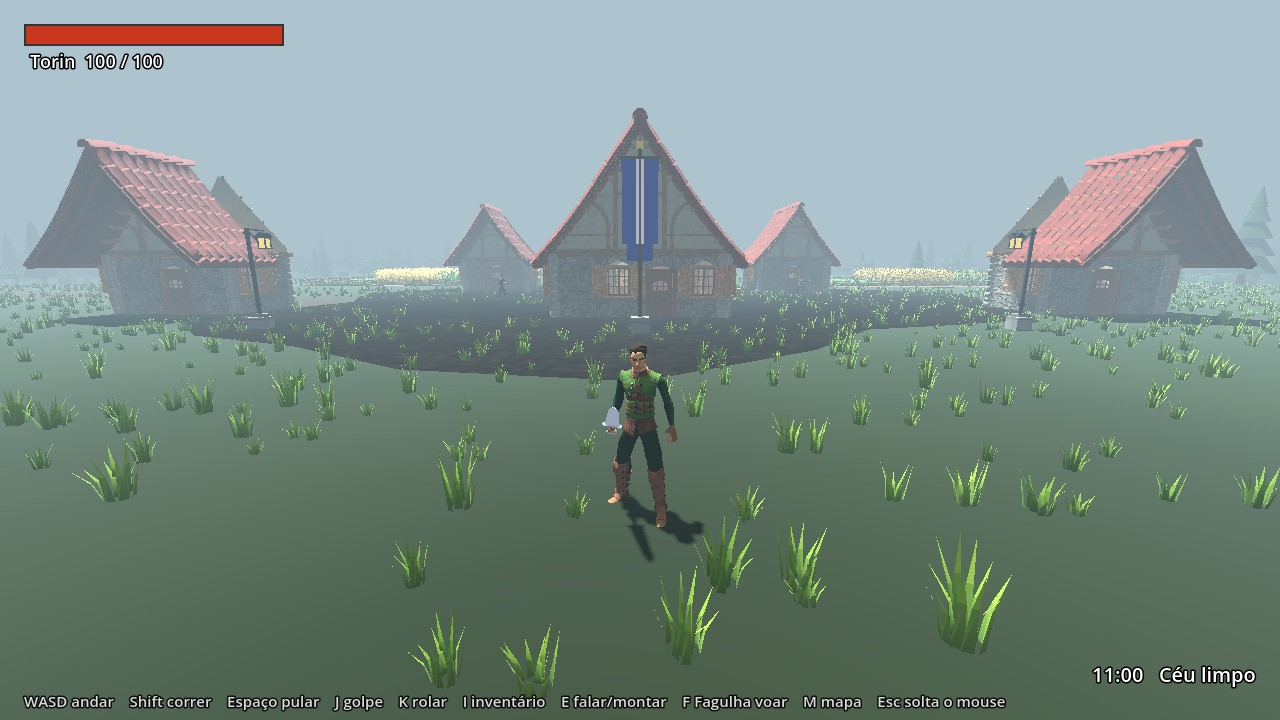
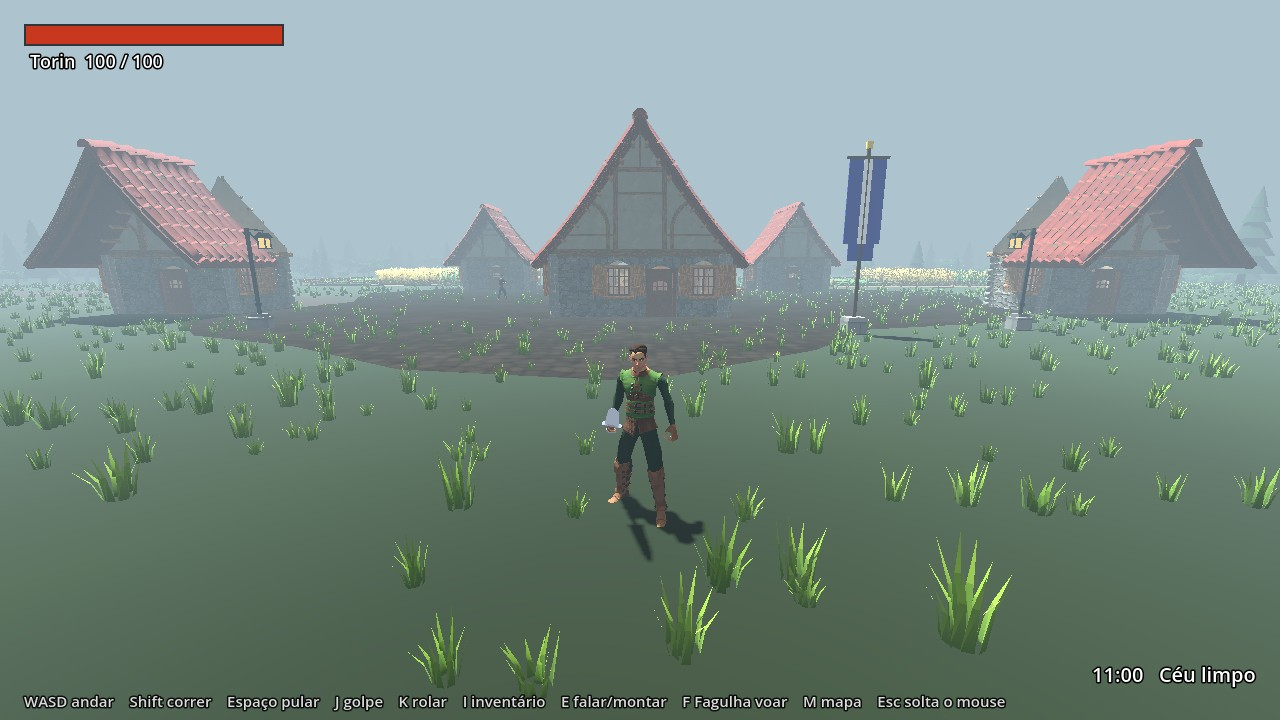
Postos rebeldes e imperiais equipados; vilas com terreiro claro e estandarte fora da porta
teste_mundo TUDO PASSOU; vila, fazenda, pescador, posto rebelde e posto imperial
fotografados dentro do mundo (docs/construcoes/povoados/).

Claude-Session: https://claude.ai/code/session_01Vzt37KowdLhiG16GmA9WD3

diff --git a/docs/MAPA-DO-TRABALHO.md b/docs/MAPA-DO-TRABALHO.md
@@ -12,7 +12,7 @@ Ponto de entrada: [README.md](../README.md) e [CLAUDE.md](../CLAUDE.md). Relato 
 | `tools/bancada_construcao.gd` | BANCADA DAS CONSTRUÇÕES: monta UMA peça (hoje a muralha) num chão plano com o Torin de régua, tira 13 fotos e roda 3 testes em ~12 s. Uso: `... --script res://tools/bancada_construcao.gd -- muralha`. Fotos em `docs/construcoes/muralha/`. |
 | `scripts/mundo/pecas_da_muralha.gd` | Kit da muralha (lanço, torre, escada, portão com arco). Aprovado na bancada e usado por `muralha_do_reino.gd`. |
 | `scripts/mundo/pecas_de_construcao.gd` | Base dos kits de construção: junta caixas, cilindros e prismas em poucos MultiMesh e guarda as colisões. |
-| `scripts/mundo/pecas_da_rua.gd` | Kit da rua: calçada, sarjeta, degrau, lampiões (parede e poste), placa, carga, banco, vaso, barraca de feira, carroça, cavalete de armas, alvo de arco e estandarte. Usado por `casario_do_reino.gd`, `vida_das_ruas.gd` e `povoado.gd` (mercado). Bancada: `-- rua` e `-- feira`. Critério em `docs/construcoes/rua.md`. |
+| `scripts/mundo/pecas_da_rua.gd` | Kit da rua: calçada, sarjeta, degrau, lampiões (parede e poste), placa, carga, banco, vaso, barraca de feira, carroça, cavalete de armas, alvo de arco, estandarte, tenda, barco e varal de peixe. Bancadas também em `-- quartel` e `-- acampamento`. Usado por `casario_do_reino.gd`, `vida_das_ruas.gd` e `povoado.gd` (mercado). Bancada: `-- rua` e `-- feira`. Critério em `docs/construcoes/rua.md`. |
 | `scripts/mundo/catedral.gd` | A catedral gótica de Valdoria inteira (nave, torres, vitrais, portal, rosácea). Usada por `povoado.gd`. Bancada: `-- catedral`. Critério em `docs/construcoes/catedral.md`. |
 | `docs/construcoes/` | Uma pasta e um `.md` por peça (muralha, rua, feira, catedral, cidadela, quartel): critério de pronto, resultado, fotos da bancada (01_...) e de dentro do mundo (20_...), e os pontos fracos anotados para depois. |
 | `tools/bancada_movimento.gd` | BANCADA DE MOVIMENTO: 6 quadros de cada animação de cada ser (vista de lado) e medidas de amplitude, passo e velocidade pedida contra a do jogo. |

diff --git a/docs/construcoes/povoados.md b/docs/construcoes/povoados.md
@@ -6,12 +6,11 @@ Código: `scripts/mundo/povoado.gd` (`_terreiro`, `_kit`) com peças de `scripts
 
 - Entrou em todos: terreiro de terra batida no largo; vilas com 3 lampiões de poste, carroça, barraca com carga e estandarte; fazendas com carroça, carga e lampião; cabanas com carga e lampião; pescadores com barco, varal de peixe e carga.
 - `teste_mundo` TUDO PASSOU. Fotos de uma vila, uma fazenda e uma cabana de pescador em `docs/construcoes/povoados/`.
-- Depois das fotos, o terreiro foi clareado (saía quase preto) e o estandarte da vila saiu da frente da porta da taverna. Essas duas mudanças AINDA NÃO foram fotografadas.
+- Segunda rodada (mesmo dia): terreiro clareado e estandarte da vila fora da porta da taverna, conferidos em foto. Postos rebeldes (9) com tendas de duas águas, terreiro, cavalete de armas, carga e carroça; postos imperiais (7) com carroças de verdade, terreiro, lampiões, cavalete e carga. `teste_mundo` TUDO PASSOU; 5 povoados fotografados (20_ a 24_). Tenda, barco e varal de peixe passaram pela bancada `-- acampamento` (fotos em `docs/construcoes/acampamento/`; o barco e a tenda foram refeitos lá depois da primeira foto).
 
 ## Pontos fracos anotados (atacar depois)
 
-- Só 3 dos 76 povoados foram vistos em foto; os outros usam as mesmas posições, mas o terreno e as casas variam.
-- Barco e varal de peixe não passaram pela bancada.
+- Só 5 dos 92 povoados (contando os postos) foram vistos em foto; os outros usam as mesmas posições, mas o terreno e as casas variam.
 - A cabana do pescador da foto não tem água à vista (o cais só aparece quando há rio a menos de 70 m).
-- Postos rebeldes e postos imperiais não receberam nada nesta rodada.
+- O terreiro ainda é uma mancha de cor lisa de longe (o capim nasce por cima); no posto rebelde lê-se como lama escura.
 - As casas dos povoados (modelos prontos) não têm calçada nem cerca de quintal.
